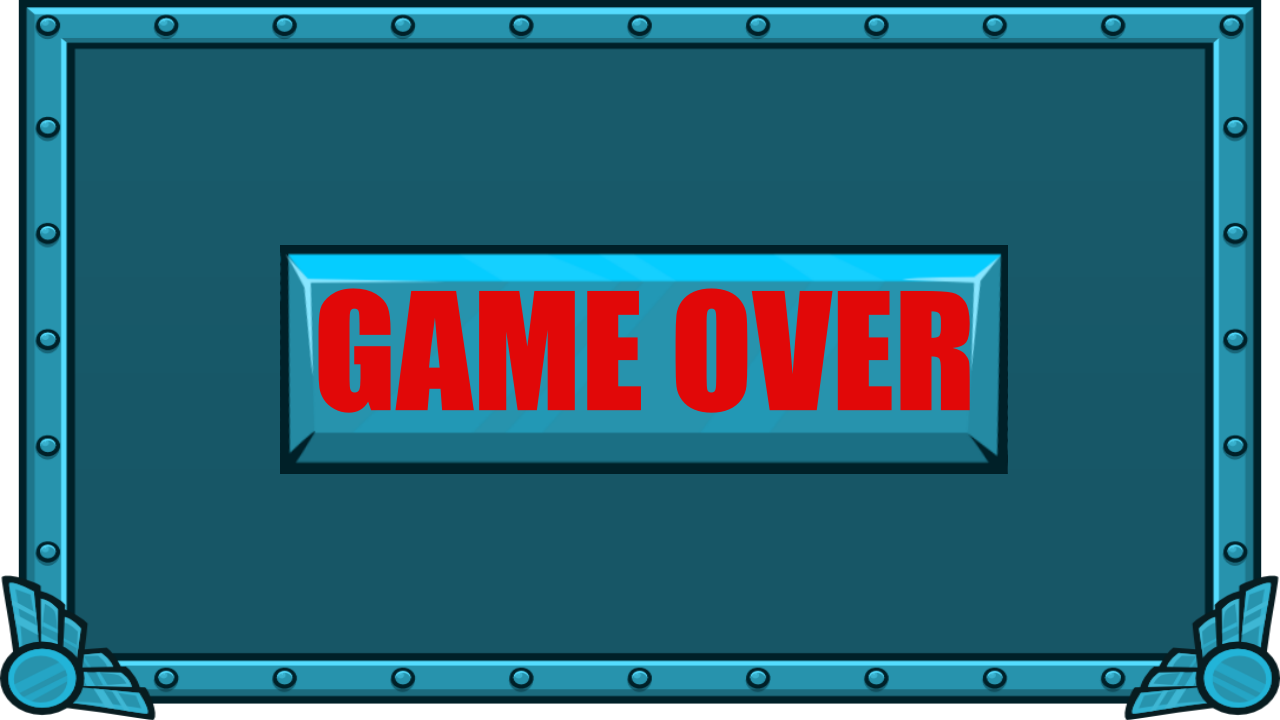
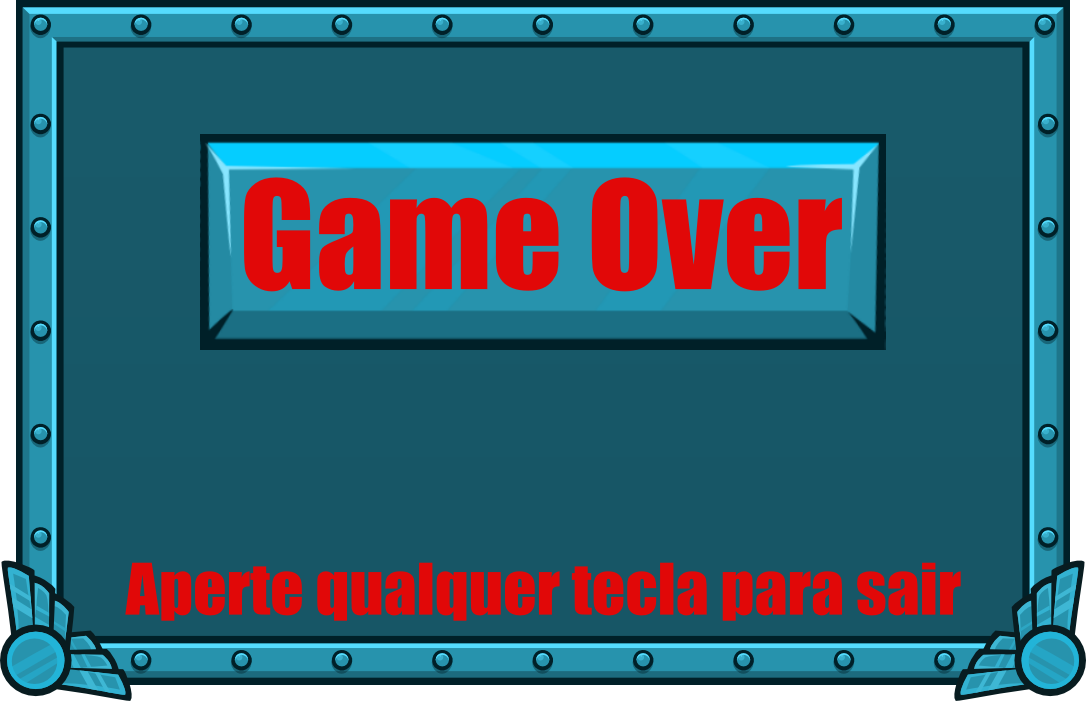
game over

diff --git a/init_screen.py b/init_screen.py
@@ -38,3 +38,38 @@ def init_screen(screen):
         pygame.display.flip()
 
     return state
+
+
+def end_screen(screen):
+     # Variável para o ajuste de velocidade
+    clock = pygame.time.Clock()
+
+    # Carrega o fundo da tela inicial
+    background2 = pygame.image.load(path.join(IMG_DIR, 'game_over.png')).convert()
+    background_rect2 = background2.get_rect()
+
+    running = True
+    while running:
+
+        # Ajusta a velocidade do jogo.
+        clock.tick(FPS)
+
+        # Processa os eventos (mouse, teclado, botão, etc).
+        for event in pygame.event.get():
+            # Verifica se foi fechado.
+            if event.type == pygame.QUIT:
+                state = QUIT
+                running = False
+
+            if event.type == pygame.KEYUP:
+                state = GAME
+                running = False
+
+        # A cada loop, redesenha o fundo e os sprites
+        screen.fill(BLACK)
+        screen.blit(background2, background_rect2)
+
+        # Depois de desenhar tudo, inverte o display.
+        pygame.display.flip()
+
+    return state

diff --git a/jogo_v22.py b/jogo_v22.py
@@ -3,11 +3,11 @@
 import pygame
 import random 
 from config import WIDTH, HEIGHT, INIT, GAME, QUIT
-from init_screen import init_screen
+from init_screen import init_screen, end_screen
 from game_screen import game_screen 
+import time
 
-
-pygame.init()
+pygame.init() 
 pygame.mixer.init()
 
 # ----- Gera tela principal
@@ -21,6 +21,7 @@ while state != QUIT:
     elif state == GAME:
         state = game_screen(window)
     else:
+        state = end_screen(window)
         state = QUIT
 
 # ===== Finalização =====
